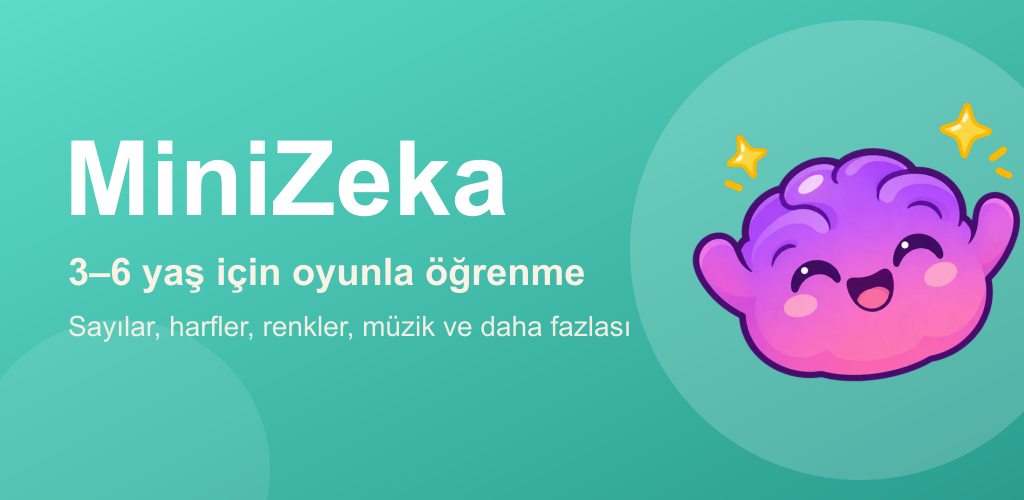
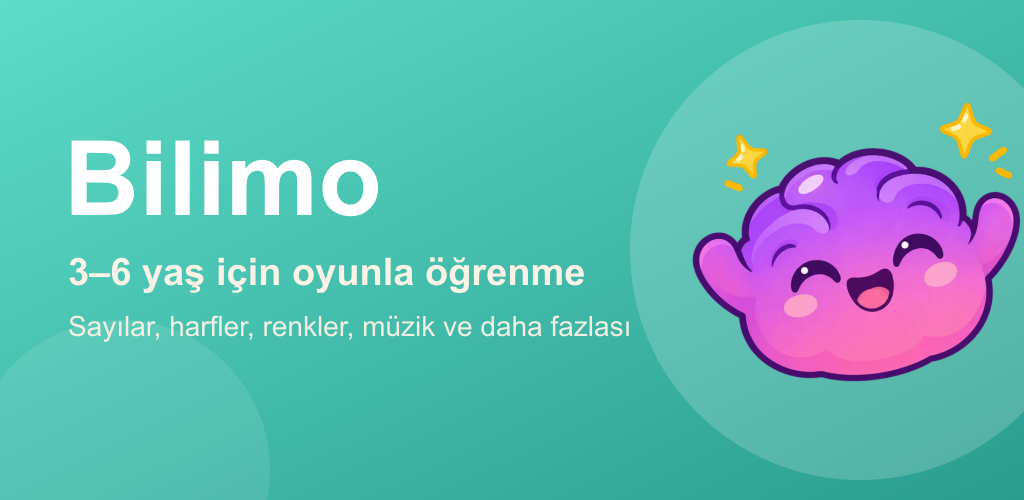
Marka adi MiniZeka -> Bilimo (minizeka markasi 09/41 siniflarinda baskasi adina tescilli): uygulama adi, metinler, acilis perdesi, mikrofon izni, e-posta gonderen adi, magaza gorseli, urun kimligi on eki bilimo_

Changed region(s): [[0.0625, 0.27, 0.5, 0.45]]

diff --git a/public/index.html b/public/index.html
@@ -126,7 +126,7 @@
     <!-- Acilis perdesi (maskot: assets/branding/mascot/el-sallar.webp'in 176 px WebP'si, sharp q70; yaklasik 5 KB) -->
     <div id="boot-splash" role="status" aria-live="polite">
[1 lines of base64/hex data omitted]
-      <div id="boot-title">MiniZeka</div>
+      <div id="boot-title">Bilimo</div>
       <div id="boot-dots" aria-hidden="true"><i></i><i></i><i></i></div>
       <div id="boot-msg">Yükleniyor…</div>
       <button id="boot-retry" type="button" hidden>Yenile</button>
@@ -142,8 +142,8 @@
         try { lang = localStorage.getItem('app-language'); } catch (e) {}
         if (lang !== 'en' && lang !== 'tr') lang = /^en/i.test(navigator.language || '') ? 'en' : 'tr';
         var T = {
-          tr: { title: 'MiniZeka', load: 'Yükleniyor…', slow: 'Bağlantı yavaş, biraz daha bekliyoruz…', fail: 'Yüklenemedi mi? Sayfayı yenile.', retry: 'Yenile' },
-          en: { title: 'MiniZeka', load: 'Loading…', slow: 'Slow connection, hang on…', fail: 'Not loading? Reload the page.', retry: 'Reload' }
+          tr: { title: 'Bilimo', load: 'Yükleniyor…', slow: 'Bağlantı yavaş, biraz daha bekliyoruz…', fail: 'Yüklenemedi mi? Sayfayı yenile.', retry: 'Yenile' },
+          en: { title: 'Bilimo', load: 'Loading…', slow: 'Slow connection, hang on…', fail: 'Not loading? Reload the page.', retry: 'Reload' }
         }[lang];
         var msg = document.getElementById('boot-msg');
         var btn = document.getElementById('boot-retry');

diff --git a/components/WelcomeLogin.web.tsx b/components/WelcomeLogin.web.tsx
@@ -19,7 +19,7 @@ export default function WelcomeLogin(p: Props) {
   return <main className="mz-welcome">
     <style>{css}</style>
     <header className="mz-header">
-      <div className="mz-brand"><span className="mz-brand-mark"><Image source={asset('/branding/mascot/el-sallar.webp')} accessibilityLabel="MiniZeka logosu" style={{ width: '100%', height: '100%' }} resizeMode="contain"/></span><span>MiniZeka<small>{en ? 'LITTLE DISCOVERIES, BIG SMILES' : 'KÜÇÜK KEŞİFLER, KOCAMAN GÜLÜMSEMELER'}</small></span></div>
+      <div className="mz-brand"><span className="mz-brand-mark"><Image source={asset('/branding/mascot/el-sallar.webp')} accessibilityLabel="Bilimo logosu" style={{ width: '100%', height: '100%' }} resizeMode="contain"/></span><span>Bilimo<small>{en ? 'LITTLE DISCOVERIES, BIG SMILES' : 'KÜÇÜK KEŞİFLER, KOCAMAN GÜLÜMSEMELER'}</small></span></div>
       <nav aria-label={en ? 'Language' : 'Dil seçimi'}>{(['tr','en'] as const).map(lang => <button key={lang} type="button" aria-pressed={i18n.language.startsWith(lang)} onClick={() => changeLanguage(lang)}>{lang.toUpperCase()}</button>)}</nav>
     </header>
     <div className="mz-layout">
@@ -48,7 +48,7 @@ export default function WelcomeLogin(p: Props) {
       </section>
       <section className="mz-door" aria-labelledby="mz-login-title">
         <span className="mz-door-star" aria-hidden="true">✦</span>
-        <span className="mz-eyebrow">{en ? 'WELCOME TO MINIZEKA' : 'MİNİZEKA’YA HOŞ GELDİN'}</span>
+        <span className="mz-eyebrow">{en ? 'WELCOME TO BILIMO' : 'BİLİMO’YA HOŞ GELDİN'}</span>
         <h2 id="mz-login-title">{en ? 'Ready to explore?' : 'Keşfe hazır mısın?'}</h2>
         <p className="mz-form-note">{en ? 'Sign in with a grown-up. Then let the play begin!' : 'Bir büyüğünle giriş yap, oyunlar başlasın!'}</p>
         <form onSubmit={e => {e.preventDefault(); if (!p.isLoggingIn) p.onLogin(email.current?.value.trim() || '', password.current?.value || '');}}>
@@ -58,7 +58,7 @@ export default function WelcomeLogin(p: Props) {
           <input id="mz-password" ref={password} type="password" autoComplete="current-password" placeholder={en ? 'Your password' : 'Şifreniz'} required/>
           <button className="mz-primary" type="submit" disabled={p.isLoggingIn}>{p.isLoggingIn ? t('login.loggingIn') : en ? 'Sign in & start playing' : 'Giriş yap, oyuna katıl'} <span aria-hidden="true">→</span></button>
         </form>
-        <div className="mz-signup"><span>{en ? 'New to MiniZeka?' : 'MiniZeka’ya yeni mi geldiniz?'}</span><button type="button" onClick={p.onSignup}>{en ? 'Create an account' : 'Hesap oluştur'} <span aria-hidden="true">↗</span></button></div>
+        <div className="mz-signup"><span>{en ? 'New to Bilimo?' : 'Bilimo’ya yeni mi geldiniz?'}</span><button type="button" onClick={p.onSignup}>{en ? 'Create an account' : 'Hesap oluştur'} <span aria-hidden="true">↗</span></button></div>
         <div className="mz-adults"><span>{en ? 'GROWN-UP ENTRANCES' : 'YETİŞKİN GİRİŞLERİ'}</span><div>{[[en ? 'Parent panel' : 'Veli paneli',p.onVeli],[en ? 'Teacher login' : 'Öğretmen girişi',p.onOgretmen],[en ? 'Institution login' : 'Kurum girişi',p.onKurum],[en ? 'Specialist login' : 'Uzman girişi',p.onAdmin]].map(([label, action]) => <button key={label as string} type="button" onClick={action as () => void}>{label as string}<span aria-hidden="true">↗</span></button>)}</div></div>
       </section>
     </div>

diff --git a/components/VeliDashboard.tsx b/components/VeliDashboard.tsx
@@ -1804,7 +1804,7 @@ export default function VeliDashboard({ childName, childAge, email, subscription
                     {/* Footer */}
                     <View style={styles.footer}>
                         <Image source={asset('/images/icon.png')} style={styles.footerLogo} resizeMode="contain" />
-                        <Text style={styles.footerText}>MiniZeka · ChildhoodTech</Text>
+                        <Text style={styles.footerText}>Bilimo · ChildhoodTech</Text>
                         <Text style={styles.footerSubtext}>{t('veli.footerSubtext')}</Text>
                         <TouchableOpacity onPress={() => router.push('/gizlilik-ayarlari')} accessibilityRole="link" style={{ paddingVertical: 12, paddingHorizontal: 16, marginTop: 6 }}>
                             <Text style={{ fontSize: 13, fontWeight: '700', color: COLORS.textLight, textDecorationLine: 'underline' }}>{t('account.title')}</Text>

diff --git a/api/revenuecat-webhook.ts b/api/revenuecat-webhook.ts
@@ -11,7 +11,7 @@
  *     API > service_role key — RLS'i bypass eder, yalnızca sunucuda kullanılır).
  *  4) RevenueCat'te entitlement kimlikleri services/purchaseService.ts'teki ile
  *     AYNI olmalı: 'tohum' | 'filiz' | 'fidan' | 'orman' (veli), 'cinar' | 'mese' (öğretmen).
- *  5) Ürün kimliği paket adını ve süreyi içermeli (ör. minizeka_filiz_3m): bkz. lib/paywall.ts, api/_lib/revenuecatExpiry.ts.
+ *  5) Ürün kimliği paket adını ve süreyi içermeli (ör. bilimo_filiz_3m): bkz. lib/paywall.ts, api/_lib/revenuecatExpiry.ts.
  *     Yenilenmeyen (bitişsiz) satın almalarda bitiş ürün kimliğindeki süreden hesaplanır; süre belirlenemezse erişim VERİLMEZ.
  *
  * app_user_id olarak kullanıcının e-postası bekleniyor (services/purchaseService.ts

diff --git a/lib/bootSplash.test.ts b/lib/bootSplash.test.ts
@@ -131,7 +131,7 @@ describe('public/index.html komut dosyası (sahte DOM ile)', () => {
 
     it('dil: kayıtlı seçim önceliklidir; yoksa cihaz dili İngilizceyse EN, aksi halde TR; depolama engelliyse cihaz dili', () => {
         run({ stored: 'en', language: 'tr-TR' });
-        expect(els['boot-title'].textContent).toBe('MiniZeka');
+        expect(els['boot-title'].textContent).toBe('Bilimo');
         expect(els['boot-msg'].textContent).toBe('Loading…');
         expect(els['boot-msg'].textContent).toBe('Loading…');
         run({ stored: 'tr', language: 'en-US' });

diff --git a/lib/paywall.ts b/lib/paywall.ts
@@ -6,7 +6,7 @@ import type { OgretmenTier, VeliTier } from './subscriptionTiers';
  * (`product.priceString`: ülke para birimiyle yerelleştirilmiş), kodda fiyat tutulmaz (bkz. PRICING.md).
  *
  * ÜRÜN KİMLİĞİ KURALI (App Store Connect / Play Console): ürün kimliği paketin adını içermeli, ör.
- *   minizeka_filiz_monthly, minizeka_fidan_yearly, minizeka_cinar_monthly
+ *   bilimo_filiz_monthly, bilimo_fidan_yearly, bilimo_cinar_monthly
  * Ekran bu adı kimlikte arar; bulamazsa mağazadaki ürün başlığını gösterir.
  */
 

diff --git a/api/send-email.ts b/api/send-email.ts
@@ -53,7 +53,7 @@ export default async function handler(req: VercelRequest, res: VercelResponse) {
     const safeAiComment = escapeHtml(details.aiComment).replace(/\*\*(.*?)\*\*/g, '<b>$1</b>');
 
     const mailOptions = {
-      from: '"MiniZeka" <admin@childhoodtech.com>',
+      from: '"Bilimo" <admin@childhoodtech.com>',
       to: email,
       subject: subject || 'Oyun Raporu',
       html: `

diff --git a/MAGAZA_YAYIN_REHBERI.md b/MAGAZA_YAYIN_REHBERI.md
@@ -29,7 +29,7 @@ Bu belge iki yarıdan oluşur: kodda **yapılanlar** ve **hesaplarla ilgili seni
 ## 2. Senin yapacakların (sırayla)
 
 ### 2.1 Hesaplar
-- **Apple Developer Program** (bireysel): yasal adın mağazada satıcı adı olarak görünür. App Store Connect'te yeni uygulama: Bundle ID `com.oyunprojesi.app`, ad "MiniZeka", kategori **Eğitim**, yaş derecelendirmesi **4+**. **"Kids" kategorisini seçme** (öneri): o kategori üçüncü tarafa kişisel veri göndermeyi yasaklar; çocuğun sesi OpenAI'a gittiği için sorun çıkarır. Yasal sözleşmelerde *Paid Applications* sözleşmesi + vergi + banka bilgisi tamamlanmadan satın alma çalışmaz.
+- **Apple Developer Program** (bireysel): yasal adın mağazada satıcı adı olarak görünür. App Store Connect'te yeni uygulama: Bundle ID `com.oyunprojesi.app`, ad "Bilimo", kategori **Eğitim**, yaş derecelendirmesi **4+**. **"Kids" kategorisini seçme** (öneri): o kategori üçüncü tarafa kişisel veri göndermeyi yasaklar; çocuğun sesi OpenAI'a gittiği için sorun çıkarır. Yasal sözleşmelerde *Paid Applications* sözleşmesi + vergi + banka bilgisi tamamlanmadan satın alma çalışmaz.
 - **Google Play Console** (bireysel): paket adı `com.oyunprojesi.app`. Bireysel hesapta üretime çıkmadan önce **kapalı testte en az 12 test kullanıcısı, 14 gün kesintisiz** gerekir (bunu başlatmak en uzun bekleme süresi). Ödeme profili + vergi formu.
 - **Apple Small Business Program** başvurusu (komisyon %30 yerine %15). Google'da abonelikte %15 zaten geçerli.
 
@@ -55,11 +55,11 @@ Bu belge iki yarıdan oluşur: kodda **yapılanlar** ve **hesaplarla ilgili seni
 
 | Paket | Ürün kimliği | Süre | Web fiyatı (TR / EN) | Mağaza hedefi (web ÷ 0,85) |
 |---|---|---|---|---|
-| Tohum | `minizeka_tohum_monthly` | 1 ay | ₺399 / $9.99 | ≈ ₺470 / $11.75 |
-| Filiz | `minizeka_filiz_3m` | 3 ay | ₺999 / $24.99 | ≈ ₺1.175 / $29.40 |
-| Fidan | `minizeka_fidan_6m` | 6 ay | ₺1.749 / $44.99 | ≈ ₺2.060 / $52.90 |
-| Orman | `minizeka_orman_yearly` | 12 ay | ₺2.899 / $69.99 | ≈ ₺3.410 / $82.30 |
-| Çınar (sınıf) | `minizeka_cinar_monthly` | 1 ay | ₺2.799 / $74.99 | **₺3.299** (karar verildi, bkz. `PRICING.md`) / ≈ $88 |
+| Tohum | `bilimo_tohum_monthly` | 1 ay | ₺399 / $9.99 | ≈ ₺470 / $11.75 |
+| Filiz | `bilimo_filiz_3m` | 3 ay | ₺999 / $24.99 | ≈ ₺1.175 / $29.40 |
+| Fidan | `bilimo_fidan_6m` | 6 ay | ₺1.749 / $44.99 | ≈ ₺2.060 / $52.90 |
+| Orman | `bilimo_orman_yearly` | 12 ay | ₺2.899 / $69.99 | ≈ ₺3.410 / $82.30 |
+| Çınar (sınıf) | `bilimo_cinar_monthly` | 1 ay | ₺2.799 / $74.99 | **₺3.299** (karar verildi, bkz. `PRICING.md`) / ≈ $88 |
 
 - Mağaza fiyatı web'den ~%15 yüksek tutulur: komisyon payı kadar, böylece web "bir tık" ucuz kalır ve net gelir eşitlenir. Tabloda en yakın **üst fiyat basamağını** seç (Apple fiyatları sabit basamaklıdır).
 - **Küresel**: temel fiyatı **USD**'de gir, Apple/Google'ın otomatik ülke dönüşümünü kullan; **TRY'yi elle** ayarla. Fiyatlar kodda tutulmaz, ödeme ekranı mağazanın verdiği yerel fiyatı gösterir.
@@ -77,7 +77,7 @@ Bu belge iki yarıdan oluşur: kodda **yapılanlar** ve **hesaplarla ilgili seni
 ### 2.6 İnceleme notları (Apple "App Review Information" ve Google'da aynısı)
 Aşağıdaki metni İngilizce yapıştır; demo veli hesabı ve demo öğretmen hesabını sen oluştur (parolayı bana yazma):
 
-> MiniZeka is a game-based learning app for preschoolers (ages 3–6), used through a parent's account. Parental gate: a multiplication question appears before the purchase screen, external links and AI permission. In-app purchases: Tohum/Filiz/Fidan/Orman (parent) and Çınar (teacher class plan); the same plans are sold on our website, and the app does not link to it. Account deletion: Parent menu (long-press the gear icon) → Account & privacy → Delete my account. Microphone: only in the "Say This!" game, only after a parent grants permission; the recording is sent for speech recognition and not stored. The progress report is written by an AI service only after parental permission; the child's name is not sent. Demo accounts: parent …, teacher … .
+> Bilimo is a game-based learning app for preschoolers (ages 3–6), used through a parent's account. Parental gate: a multiplication question appears before the purchase screen, external links and AI permission. In-app purchases: Tohum/Filiz/Fidan/Orman (parent) and Çınar (teacher class plan); the same plans are sold on our website, and the app does not link to it. Account deletion: Parent menu (long-press the gear icon) → Account & privacy → Delete my account. Microphone: only in the "Say This!" game, only after a parent grants permission; the recording is sent for speech recognition and not stored. The progress report is written by an AI service only after parental permission; the child's name is not sent. Demo accounts: parent …, teacher … .
 
 ### 2.7 Mağaza sayfası
 Ad, kısa/uzun açıklama, anahtar sözcükler, ekran görüntüleri (iPhone 6,7"/6,5"; Android telefon), öne çıkan görsel (1024×500), destek e-postası/bağlantısı. İstersen metinleri ve ekran görüntüsü planını ben hazırlarım.
@@ -97,7 +97,7 @@ Uygulama içi metinler TR/EN (yeni ekranlar dahil); oyun içi **sesler yalnız T
 - **Apple / Google** — Mağaza ödemeleri; kart bilgisi bize ulaşmaz.
 - **Vercel Inc.** — Web uygulamasının ve sunucu işlevlerinin barındırılması.
 
-**"Çocuklara Ait Verilerin İşlenmesi"** bölümünde "MiniZeka, doğrudan çocuklardan veri toplamaz" cümlesini şöyle düzelt: *"Çocuğun sesi yalnızca 'Bunu Söyle!' oyununda, ebeveynin izniyle, kelimeyi anlamak için kullanılır ve saklanmaz."*
+**"Çocuklara Ait Verilerin İşlenmesi"** bölümünde "Bilimo, doğrudan çocuklardan veri toplamaz" cümlesini şöyle düzelt: *"Çocuğun sesi yalnızca 'Bunu Söyle!' oyununda, ebeveynin izniyle, kelimeyi anlamak için kullanılır ve saklanmaz."*
 
 **Yeni bölüm — Hesap ve verilerin silinmesi:** Uygulamada *Hesap ve gizlilik → Hesabımı sil* ya da `https://oyun.childhoodtech.com/hesap-sil` adresinden hesabınızı ve tüm verilerinizi (profil, çocuk bilgileri, oyun sonuçları, çizimler, sınıf kayıtları) kalıcı olarak silebilirsiniz. Giriş yapamıyorsanız admin@childhoodtech.com adresine yazabilirsiniz. Mağaza aboneliği hesap silmekle iptal olmaz; mağazanızdan ayrıca iptal edilmelidir. Yasal saklama yükümlülüğü bulunan kayıtlar mevzuatın gerektirdiği süre saklanır.
 

diff --git a/PLAY_CONSOLE_CEVAPLARI.md b/PLAY_CONSOLE_CEVAPLARI.md
@@ -1,4 +1,4 @@
-# Google Play Console — hazır cevap kâğıdı (MiniZeka)
+# Google Play Console — hazır cevap kâğıdı (Bilimo)
 
 Son güncelleme: 2026-11-08. Hesap onayı gelince uygulamayı oluştururken bu kâğıttan kopyala. `(doğrula)` işaretli yerleri kendin bir kez gözden geçir; mağaza formlarındaki beyanın sorumluluğu hesap sahibindedir.
 
@@ -23,7 +23,7 @@ Uygulama gerçekleri (cevapların dayanağı): reklam yok, analitik/çökme SDK'
 
 ## 1. Uygulamayı oluştururken
 
-- Ad: **MiniZeka** · Varsayılan dil: **Türkçe (tr-TR)** · Uygulama (oyun değil) · **Ücretsiz** (içinde satın alma var)
+- Ad: **Bilimo** · Varsayılan dil: **Türkçe (tr-TR)** · Uygulama (oyun değil) · **Ücretsiz** (içinde satın alma var)
 - Paket adı: `com.oyunprojesi.app`
 - Kategori: **Eğitim** · Etiketler: Eğitim, Çocuklar, Okul öncesi (doğrula, listede ne varsa)
 - İletişim e-postası: admin@childhoodtech.com (doğrula) · Web sitesi: https://childhoodtech.com
@@ -83,7 +83,7 @@ Toplanmayanlar: konum, kişiler, fotoğraf/video (kamera yok), takvim, sağlık,
 **Tam açıklama (TR):**
 
 ```
-MiniZeka, okul öncesi çocuklar (3–6 yaş) için hazırlanmış, ebeveyn ve öğretmenle birlikte kullanılan oyunla öğrenme uygulamasıdır.
+Bilimo, okul öncesi çocuklar (3–6 yaş) için hazırlanmış, ebeveyn ve öğretmenle birlikte kullanılan oyunla öğrenme uygulamasıdır.
 
 Çocuk oynarken sayıları, harfleri, renkleri, şekilleri, örüntüleri, müziği ve çevresini keşfeder. Oyunlar kısa, renkli ve sesli yönergelidir; çocuk okuma bilmeden de oynayabilir.
 
@@ -117,7 +117,7 @@ Kullanım şartları: https://childhoodtech.com/kullanim-sartlari.html
 
 Not: "Yüzü aşkın oyun" yerine yayın günü katalogdaki gerçek sayıyı yaz (şu an 137). Hangi oyunların ücretsiz olduğunu mağazaya yazmadan önce `constants/gameCatalog.ts` ile kontrol et.
 
-**Release notes (ilk sürüm):** `MiniZeka'nın ilk sürümü: yüzü aşkın oyun, sesli yönergeler, veli paneli ve öğretmen sınıf araçları.`
+**Release notes (ilk sürüm):** `Bilimo'nun ilk sürümü: yüzü aşkın oyun, sesli yönergeler, veli paneli ve öğretmen sınıf araçları.`
 
 **İngilizce liste (isteğe bağlı):** Uygulama arayüzü TR/EN ama **oyun sesleri yalnız Türkçe**. İngilizce liste açacaksan bunu ilk satırda belirt ("Voice guidance is in Turkish"); aksi hâlde EN kullanıcılar yanlış beklentiyle düşük puan verir. Önerim: ilk sürümde yalnız Türkçe.
 
@@ -152,6 +152,6 @@ Bireysel hesapta üretime çıkmak için en az **12 kişi aynı anda katılmış
 
 Testçilere gönderilecek mesaj:
 
-> Merhaba! MiniZeka adlı çocuk öğrenme oyunlarının Google Play kapalı testine davetlisin. 1) Bu bağlantıya tıkla ve "Test kullanıcısı ol"u seç: [bağlantı]. 2) Play Store'dan uygulamayı indir. 3) 14 gün boyunca kurulu bırak, ara sıra aç. Sorun ya da fikrin olursa bana yaz. Teşekkürler!
+> Merhaba! Bilimo adlı çocuk öğrenme oyunlarının Google Play kapalı testine davetlisin. 1) Bu bağlantıya tıkla ve "Test kullanıcısı ol"u seç: [bağlantı]. 2) Play Store'dan uygulamayı indir. 3) 14 gün boyunca kurulu bırak, ara sıra aç. Sorun ya da fikrin olursa bana yaz. Teşekkürler!
 
 Test sonunda Play "üretim erişimi" başvurusunda test sürecini sorar (geri bildirim, yapılan düzeltmeler). Kısa bir not tut: kim ne bildirdi, ne düzelttin.
